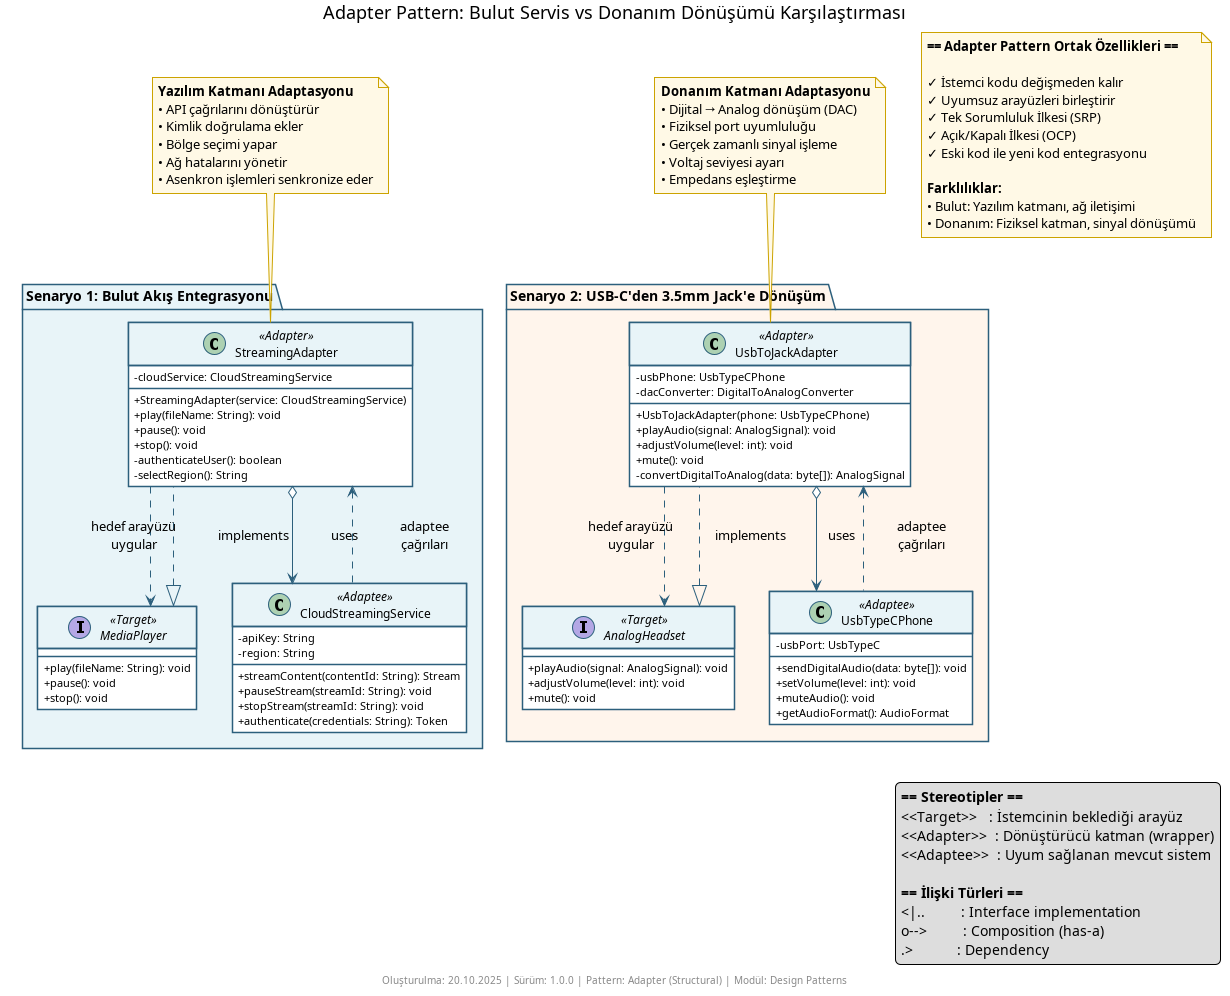
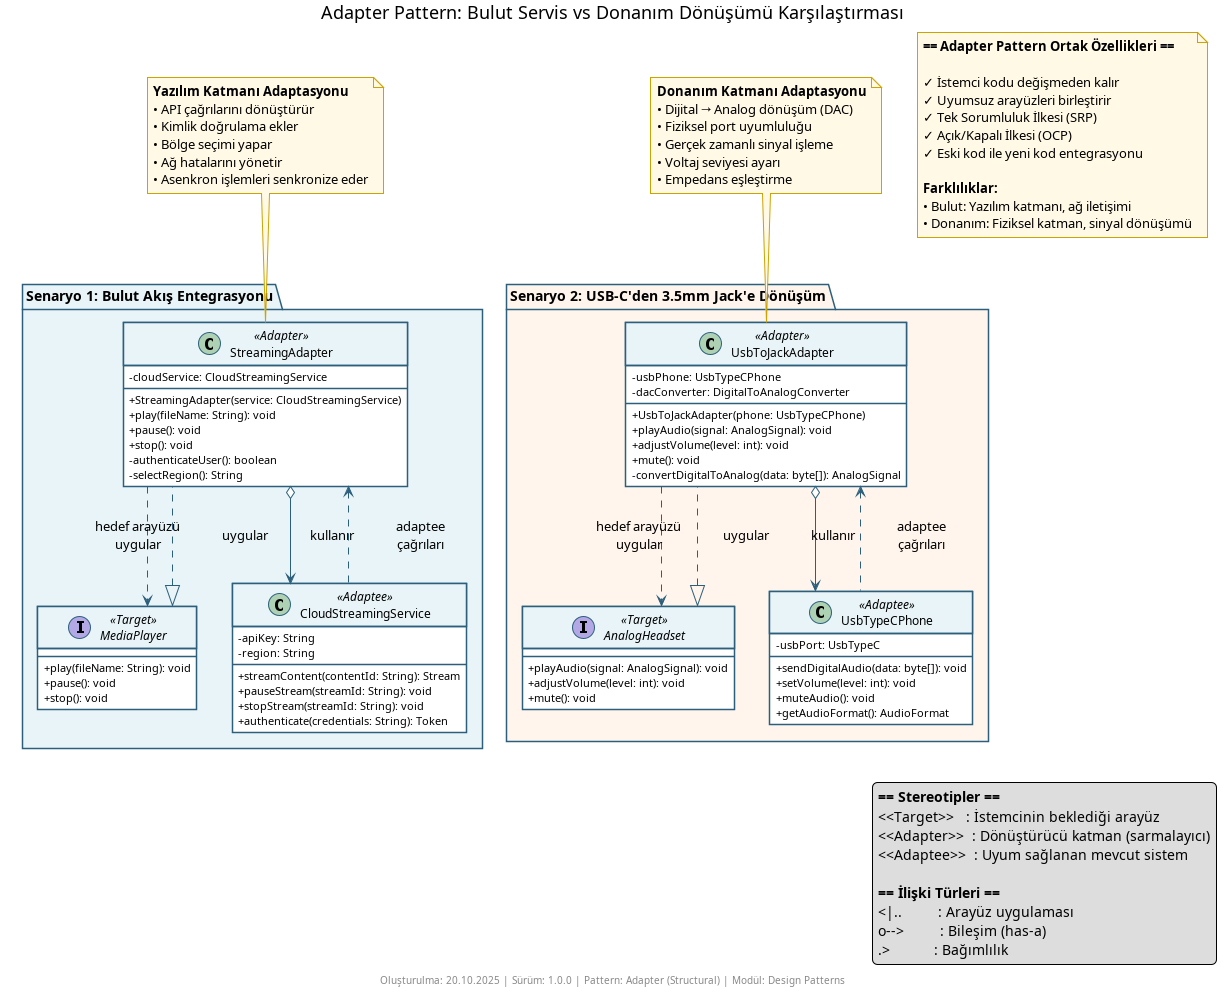
türkçeleştirildi

diff --git a/structural/adapter/README.md b/structural/adapter/README.md
@@ -1,6 +1,6 @@
 # Adapter Pattern Nedir?
 
-**Adapter Pattern**, uyumsuz arayüzlere sahip sınıfları birlikte çalışabilir hale getiren bir **yapısal kalıptır (structural pattern)**. İstemci kodu beklediği arayüzü kullanmaya devam ederken adapter sınıfı çağrıları hedef sınıfa çevirir. Böylece hem mevcut kod korunur hem de yeni sistemler entegre edilir.
+**Adapter Pattern**, uyumsuz arayüzlere sahip sınıfları birlikte çalışabilir hale getiren bir **yapısal kalıptır (structural pattern)**. İstemci kodu beklediği arayüzü kullanmaya devam ederken, adapter sınıfı çağrıları hedef sınıfa çevirir. Böylece hem mevcut kod korunur hem de yeni sistemler entegre edilir.
 
 ## Ne İşe Yarar?
 
@@ -13,7 +13,7 @@
 
 ### 1. Bulut Akışı (Cloud Streaming)
 
-![Cloud Streaming Adapter](./cloud_streaming/diagram.png)
+![Bulut Akışı Adaptörü](./cloud_streaming/diagram.png)
 
 Yerel `MediaPlayer` arayüzü, üçüncü parti `CloudStreamingService` servisine uyarlanır. `StreamingAdapter`, bağlantı, kimlik doğrulama ve akış yönetimini üstlenirken istemci hâlâ aynı `play()` metodunu kullanır.
 
@@ -25,7 +25,7 @@ player->play("song_id_123");
 
 ### 2. Eski Kulaklık (Legacy Audio)
 
-![Legacy Audio Adapter](./legacy_audio/diagram.png)
+![Eski Kulaklık Adaptörü](./legacy_audio/diagram.png)
 
 `UsbToJackAdapter`, dijital USB-C telefon çıkışını analog kulaklığa çevirir. Dijital PCM verisi alınır, manuel olarak analog değerlere dönüştürülür ve `AnalogAudioOutput` arayüzüne uygun şekilde iletilir.
 
@@ -39,9 +39,9 @@ headset.plugIn(&adapter);
 phone.playAudio("analog-dreams.aac");   
 ```
 
-### 3. İki Senaryonun Karşılaştırması
+### 3. İki Vakanın Karşılaştırması
 
-![Adapter Comparison](./cloud_legacy_diff/diagram.png)
+![Adapter Karşılaştırması](./cloud_legacy_diff/diagram.png)
 
 Karşılaştırma diyagramı, bulut servis uyarlaması ile fiziksel port uyarlamasının ortak noktalarını (**aynı arayüzü koruma**, **adapter üzerinden ek hazırlık adımları**) ve farklarını (**ağ çağrıları vs. gerçek zamanlı sinyal dönüştürme**, **yazılım entegrasyonu vs. donanım uyumluluğu**) yan yana gösterir.
 
